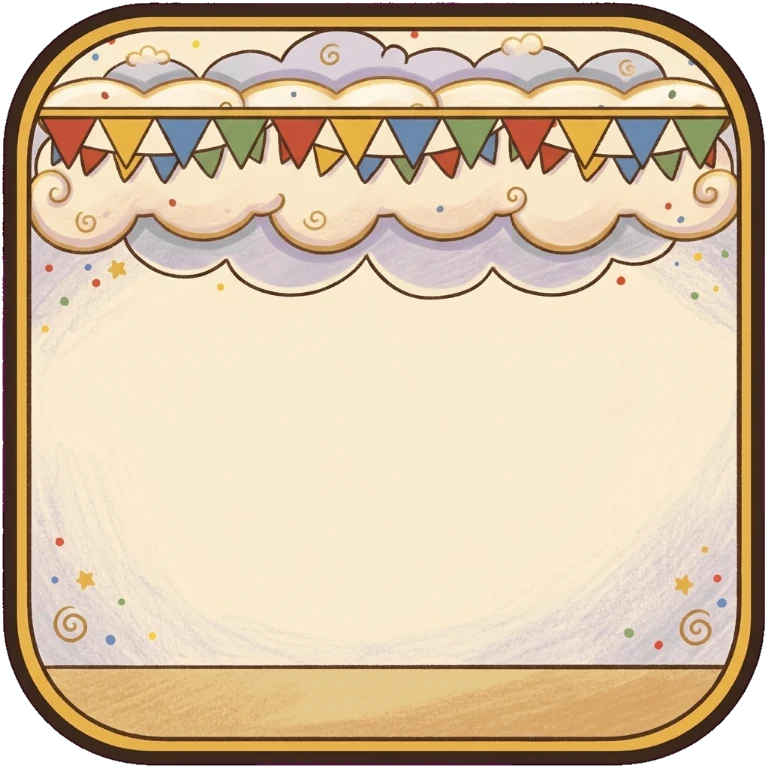
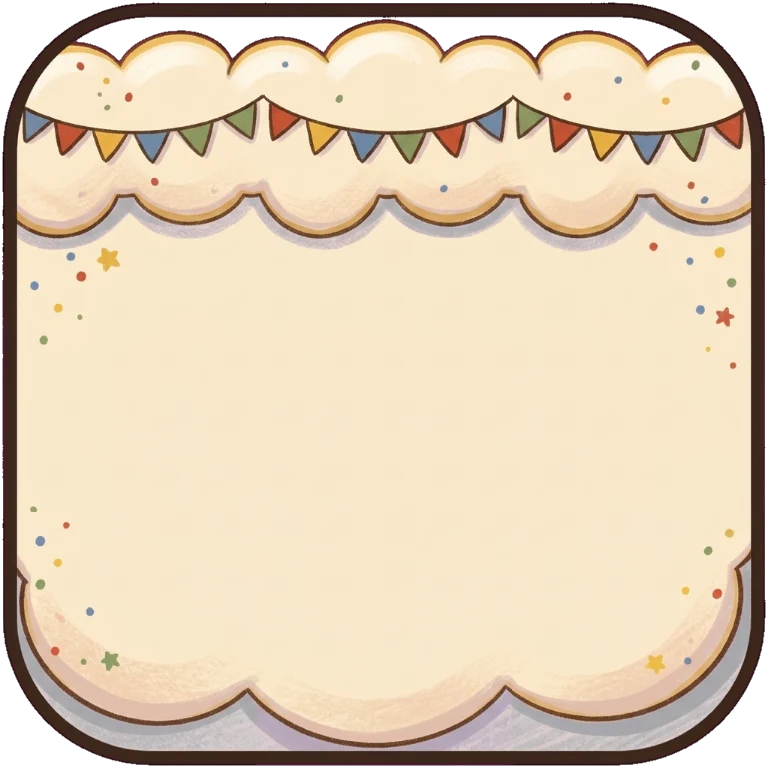
Dragon kite: front view faces the viewer, cleaner finish podium cloud (revision 19)
Claude-Session: https://claude.ai/code/session_01DaNtQ5A9gBrvWEUzWsAmPA

diff --git a/changelog.md b/changelog.md
@@ -1,7 +1,7 @@
 Umbrella — changelog (newest first)
 
 == Revision 19 — 2026-11-21 ==
-- [x] The kite skin is now a baby dragon ("Drachen" is both a kite and a dragon): a chubby ember-red dragon with cream belly, gold horns and blue ribbon bows, painted in the game's crayon finish — walk, idle, hover, fall, terminal fall, broken umbrella, cheer, flattened, destroyed, front view, the platforms (plain, finish, switch), Walldorf (body and face), mines, fan, checkpoint flag, button and spikes, and the wind wisps. Chad's kite art is unchanged. Idle breathing keeps the body size within 1.5 % (it no longer swells and shrinks), and the walk was repainted over a proper walk-cycle guide (contact, down, passing, up) so the feet step like a real walk
+- [x] The kite skin is now a baby dragon ("Drachen" is both a kite and a dragon): a chubby ember-red dragon with cream belly, gold horns and blue ribbon bows, painted in the game's crayon finish — walk, idle, hover, fall, terminal fall, broken umbrella, cheer, flattened, destroyed, front view, the platforms (plain, finish, switch), Walldorf (body and face), mines, fan, checkpoint flag, button and spikes, and the wind wisps. Chad's kite art is unchanged. Idle breathing keeps the body size within 1.5 % (it no longer swells and shrinks), and the walk was repainted over a proper walk-cycle guide (contact, down, passing, up) so the feet step like a real walk; the front view now faces the viewer (both eyes, both horns, wings spread behind him) and the finish podium cloud lost its second lavender layer
 - [x] The dragon kite is selectable in the cheat mode's Art dropdown (Drawn / Origami: Lantern / Dragon Kite) and, like the lantern, is the normal game in a skin: same campaign, levels server, community, feel and save, so the level editor lists the same levels and My Levels as the normal game (the separate kite save that hid them is gone). Pages builds also publish /umbrella/kite/ and the current revision's /kite/
 - [x] The 100 kite levels, the kite-only feel and their solver recordings are removed. In their place the dragon skin opens with a new first chapter, "Dragon Flight": five short onboarding levels (First Breeze, Open and Close, The Long Stream, Bounce Back, Castle Run), each teaching one idea and all proven beatable by the bot on the real engine; edits to them in the editor stay in the browser
 - [x] The loading screens' text (the static splash and the "Umbrella" title with its stuck-hint) can no longer be selected with the mouse or given a text cursor.
